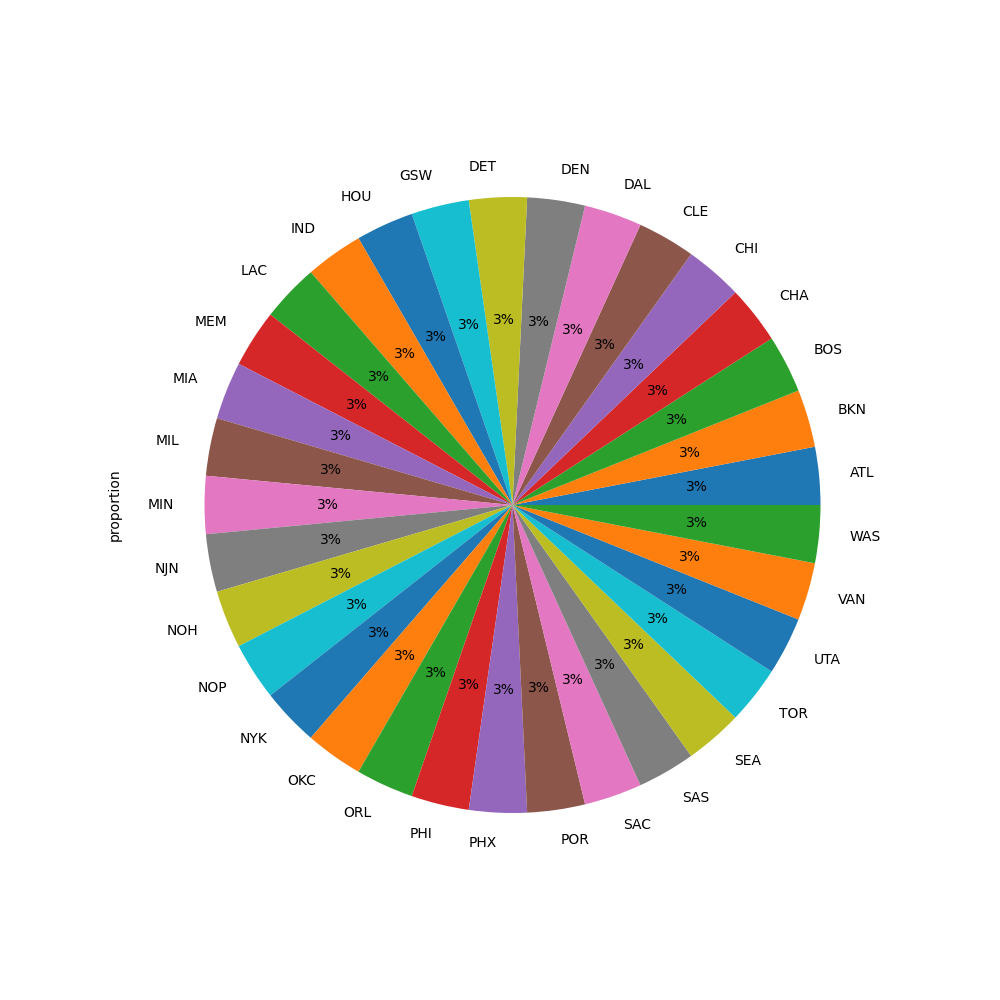
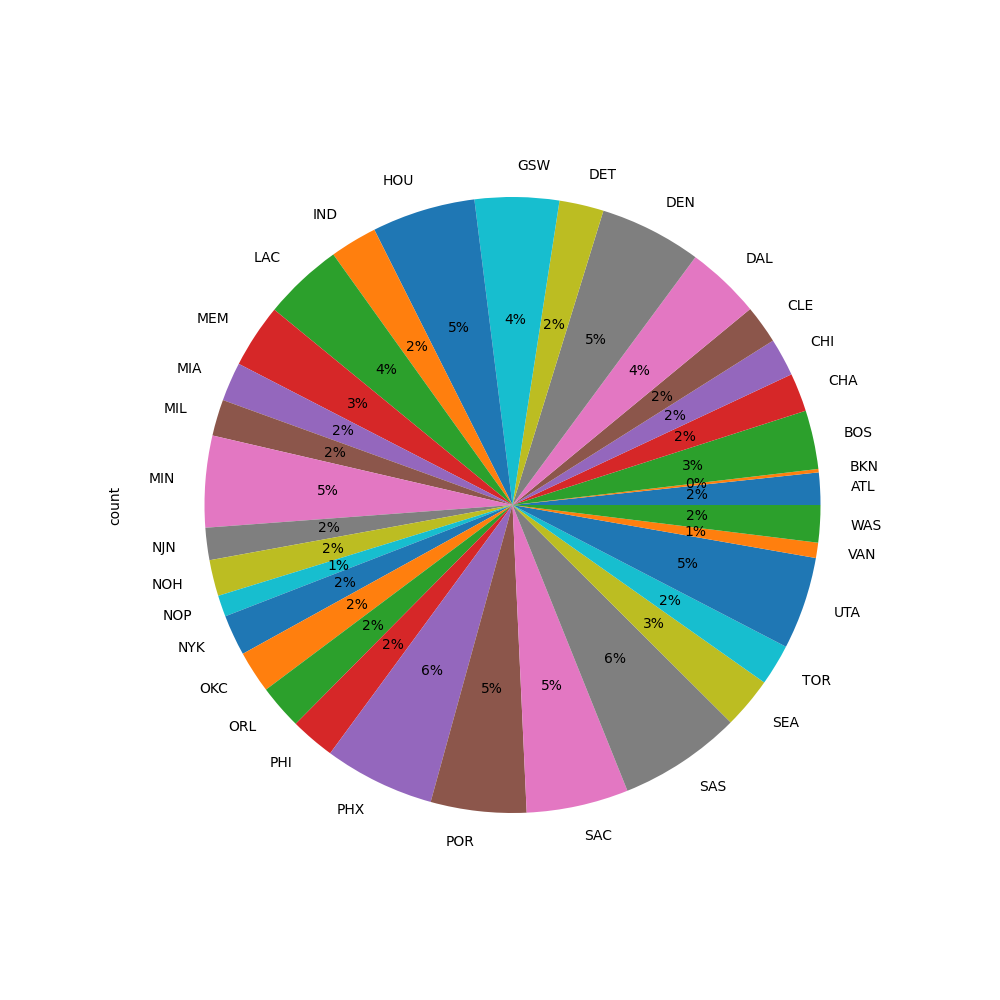
Terminando P5 y P6

diff --git a/Practica6.py b/Practica6.py
@@ -1,0 +1,37 @@
+import pandas as pd
+import statsmodels.api as sm
+import numbers
+import matplotlib.pyplot as plt
+
+df = pd.read_csv('Kobe_shots_cleanData.csv')
+df_aux = df.groupby("opponent").agg({"shot_distance": "sum"})
+df_aux.reset_index(inplace=True)
+
+def transform_variable(df: pd.DataFrame, x: str) -> pd.Series:
+
+    if isinstance(df[x][0], numbers.Number):
+
+        return df[x]
+    
+    else:
+
+        return pd.Series([i for i in range(0, len(df[x]))])
+
+
+def progresion_lineal(df: pd.DataFrame, x: str, y:str) -> None:
+
+    fixed_x = transform_variable(df, x)
+    model = sm.OLS(df[y], sm.add_constant(fixed_x)).fit()
+    print(model.summary())
+
+    coef = pd.read_html(model.summary().tables[1].as_html(), header=0, index_col=0)[0]['coef']
+    
+    df.plot(x=x, y=y, kind='scatter')
+    plt.plot(df_aux[x], [coef.values[1] + x + coef.values[0] for _, x in fixed_x.items()], color='red')
+    plt.xticks(rotation=90)
+    
+    plt.savefig('Graficas_P6/PL_Opponent_ShotDistance.png')
+    plt.close()
+
+#PROGESION LINEAL ENTRE OPONENTE Y LA DISTANCIA DE TIRO
+progresion_lineal(df_aux, "opponent", "shot_distance")

diff --git a/Practica5.py b/Practica5.py
@@ -1,0 +1,29 @@
+import pandas as pd
+import statsmodels.api as sm
+from statsmodels.formula.api import ols
+
+df = pd.read_csv('Kobe_shots_cleanData.csv')
+
+def anova(df_aux: pd.DataFrame, str_ols: str):
+
+    modl = ols(str_ols, data=df_aux).fit()
+    anova_df = sm.stats.anova_lm(modl, typ=2)
+
+    if anova_df["PR(>F)"][0] < 0.005:
+
+        print("Hay diferencias")
+        print(anova_df)
+
+    else:
+        
+        print("No hay diferencias")
+
+
+def anova_1():
+
+    df_aux = df.groupby(["matchup", "opponent"]).agg({"shot_distance": "count"})
+    df_aux.reset_index(inplace=True)
+    anova(df_aux, "shot_distance ~ opponent + matchup")
+
+#ANOVA ENTRE OPONENTES Y EMPAREJAMIENTO DE ACUERDO A LA DISTANCIA CADA TIRO
+anova_1()

diff --git a/Practica4.py b/Practica4.py
@@ -1,6 +1,6 @@
 import pandas as pd
-import matplotlib.pyplot as plt
 import seaborn as sns
+import matplotlib.pyplot as plt
 
 df = pd.read_csv('Kobe_shots_cleanData.csv')
 
